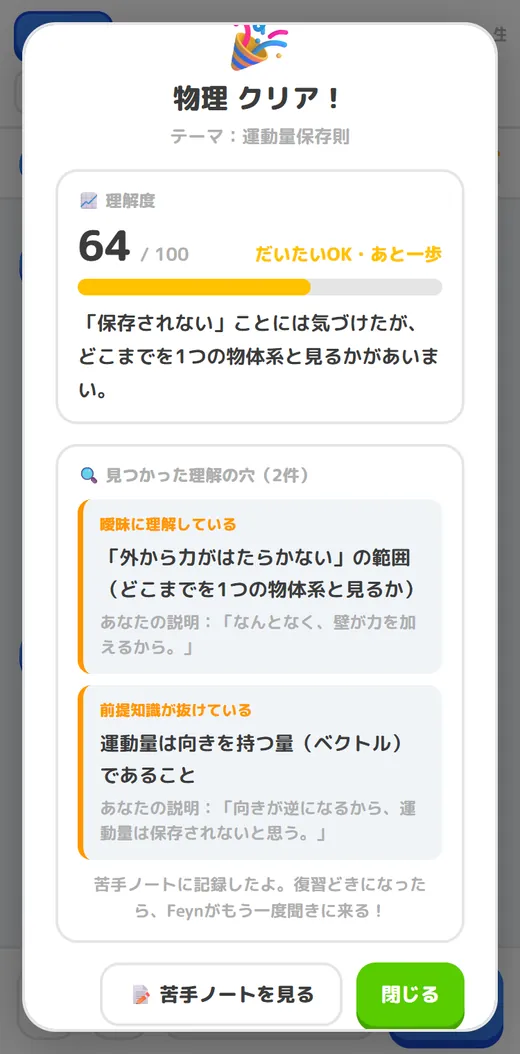
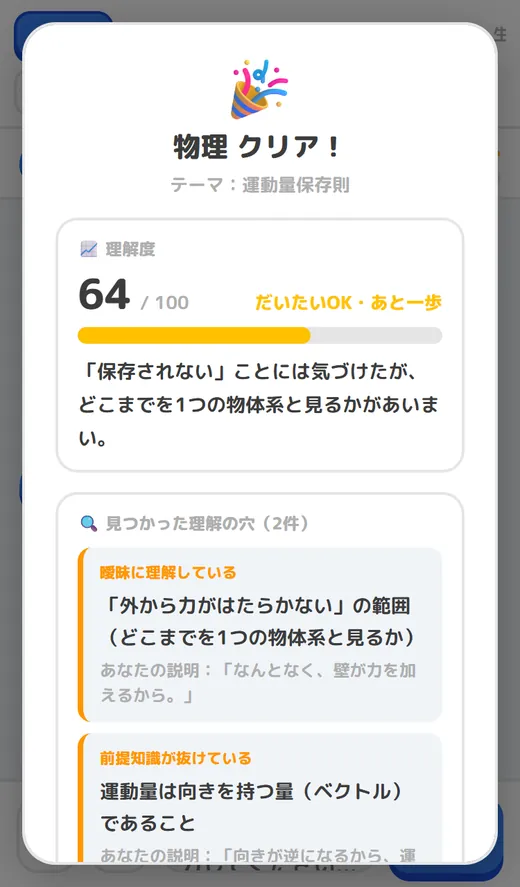
LP: しくみの01〜03を、同じ物理・運動量の会話の本物の画面にそろえる
- デモの会話（物理・運動量）を、01の質問 → 02のヒントと説明 → 03の答え直しと納得、とつながるように撮り直し
- 02・03の英語・仮定法のイラストを本物の画面に置き換え、イラストのCSSと演出を削除
- 画面は少し低い高さ（375×640）で撮り、結果・苦手ノートも同じ高さにそろえた（WebP・幅520px）
- 02・03の本文も、画面の会話とつながるように

diff --git a/landing.html b/landing.html
@@ -173,11 +173,6 @@
     .nb-meter { flex: 1; height: 10px; background: #E3EAEF; border-radius: 99px; overflow: hidden; }
     .nb-meter span { display: block; height: 100%; width: 50%; background: var(--brand); border-radius: 99px; }
 
-    /* 会話画面の部品（しくみで使う） */
-    .avatar { width: 30px; height: 30px; border-radius: 50%; background: var(--brand); display: grid; place-items: center; flex-shrink: 0; }
-    .b-feyn, .b-me { max-width: 88%; padding: 7px 10px; font-size: 11.5px; font-weight: 700; line-height: 1.55; }
-    .b-feyn { align-self: flex-start; background: #FFFFFF; border-radius: 12px 12px 12px 3px; }
-    .b-me { align-self: flex-end; background: var(--brand); color: var(--on-brand); border-radius: 12px 12px 3px 12px; }
 
     /* ===== Feynでできること（黒板の帯） ===== */
     .facts { background: var(--board); color: var(--board-ink); }
@@ -214,15 +209,6 @@
     .step p { font-size: 16px; color: var(--ink-soft); font-weight: 500; }
     .step p strong { color: var(--ink); font-weight: 700; }
     .step-visual { display: flex; justify-content: center; }
-    .card-screen { width: min(100%, 400px); background: #F0F4F8; border: 1px solid #D5DEE5; border-radius: 16px; padding: 16px; display: flex; flex-direction: column; gap: 10px; color: #2C3A2A; }
-    .cs-head { display: flex; align-items: center; gap: 10px; padding-bottom: 10px; border-bottom: 1px solid #D5DEE5; font-size: 14px; font-weight: 900; color: #14210F; line-height: 1.2; }
-    .cs-head small { display: block; font-size: 11px; font-weight: 700; color: #4B5A45; }
-    .card-screen .b-feyn, .card-screen .b-me { font-size: 14px; padding: 10px 14px; border-radius: 14px; }
-    .card-screen .b-feyn { border-bottom-left-radius: 4px; }
-    .card-screen .b-me { border-bottom-right-radius: 4px; }
-    .ways { display: flex; flex-wrap: wrap; gap: 8px; margin-top: 2px; }
-    .way { border: 1px solid #C9D4DC; background: #FFFFFF; border-radius: 4px; padding: 4px 10px; font-size: 13px; font-weight: 700; color: #33424D; }
-    .redpen-note { font-family: var(--hand); font-weight: 600; color: #D4352A; font-size: 15px; align-self: flex-start; padding-left: 6px; }
 
     /* ===== 会話のあとの結果 ===== */
     .graded { padding: 96px 0; border-top: 1px solid var(--rule); border-bottom: 1px solid var(--rule); background: var(--paper-2); }
@@ -417,12 +403,6 @@
     .js .bubbles.is-in .bubble:nth-child(3) { animation-delay: 0.5s; }
     .js .bubbles.is-in .bubble:nth-child(4) { animation-delay: 0.75s; }
 
-    /* しくみ: 会話画面の吹き出しが、チャットのように1つずつ出る */
-    .js .step-visual .card-screen > :not(.cs-head) { opacity: 0; }
-    .js .step-visual.is-in .card-screen > :not(.cs-head) { animation: pop-in 0.45s ease-out forwards; }
-    .js .step-visual.is-in .card-screen > :nth-child(2) { animation-delay: 0.3s; }
-    .js .step-visual.is-in .card-screen > :nth-child(3) { animation-delay: 1.1s; }
-    .js .step-visual.is-in .card-screen > :nth-child(4) { animation-delay: 1.9s; }
 
 
     /* 復習のグラフ: 灰色の線（復習しない）をさっと引き、色付きの線（Feynの復習）をゆっくり引く。
@@ -611,10 +591,10 @@
           </div>
           <div class="step-visual shot-visual">
             <figure class="phone">
-              <img src="/static/lp/app-chat.webp" width="520" height="1054" loading="lazy" decoding="async"
-                   alt="Feynの会話画面。Feynが「同じ速さではね返ったなら、運動量も保存されてるってこと？」と聞き、生徒の説明に「運動量が変わったのは何のせい？」と問いを返している。">
+              <img src="/static/lp/app-step1.webp" width="520" height="887" loading="lazy" decoding="async"
+                   alt="物理の会話の始まり。Feynが「ボールが壁にぶつかって、同じ速さ5 m/sではね返ったとする。速さが変わってないなら、ボールの運動量も保存されてるってこと？」と質問している。">
             </figure>
-            <p class="shot-note hand" aria-hidden="true">← 実際の画面</p>
+            <p class="shot-note hand" aria-hidden="true">実際の画面（物理・運動量）</p>
           </div>
         </div>
 
@@ -622,14 +602,14 @@
           <div class="step-text">
             <div class="step-num" aria-hidden="true">02</div>
             <h3>あなたが、自分の言葉で説明する</h3>
-            <p>文字で打っても、<strong>声で話しても</strong>OK。数式も入力できる。わからなくなったら「ヒント」でキーワードだけもらえる。</p>
+            <p>文字で打っても、<strong>声で話しても</strong>OK。数式も入力できる。わからなくなったら「ヒント」で<strong>キーワードだけ</strong>もらえる（画面では「力積、物体系」）。</p>
           </div>
-          <div class="step-visual">
-            <div class="card-screen" aria-hidden="true">
-              <div class="cs-head"><span class="avatar"><svg width="18" height="18" viewBox="0 0 24 24"><path d="M2 9.5 12 5l10 4.5L12 14z" fill="#FFFFFF"/><path d="M6.5 11.6V16c0 1.2 2.5 2.5 5.5 2.5s5.5-1.3 5.5-2.5v-4.4L12 14z" fill="#FFFFFF"/></svg></span><span>Feyn<small>あなたに英語を教わる生徒役</small></span></div>
-              <span class="b-me">事実と違うことを言う仮定法だから、形を過去にずらしてるんだよ。</span>
-              <div class="ways"><span class="way">文字で入力</span><span class="way">声で入力</span><span class="way">数式</span><span class="way">写真で出題</span></div>
-            </div>
+          <div class="step-visual shot-visual">
+            <figure class="phone">
+              <img src="/static/lp/app-step2.webp" width="520" height="887" loading="lazy" decoding="async"
+                   alt="同じ会話の続き。ヒントで「力積、物体系」とキーワードだけが出て、生徒が「向きが逆になるから、運動量は保存されないと思う。なんとなく、壁が力を加えるから。」と説明。Feynが「運動量が変わったのは何のせい？壁はボールに何をしてるの？」と聞き返し、生徒は次の説明を入力している。">
+            </figure>
+            <p class="shot-note hand" aria-hidden="true">ヒントはキーワードだけ</p>
           </div>
         </div>
 
@@ -637,15 +617,14 @@
           <div class="step-text">
             <div class="step-num" aria-hidden="true">03</div>
             <h3>答えは言わない。問いで返ってくる</h3>
-            <p>曖昧な言葉、飛ばした理由、前提の抜け。Feynは<strong>答えを言わずに、質問だけを1つずつ</strong>返してくる。説明しきってFeynが納得したら、クリア。</p>
+            <p>曖昧な言葉、飛ばした理由、前提の抜け。Feynは<strong>答えを言わずに、質問だけを1つずつ</strong>返してくる。「壁はボールに何をしてるの？」に答え直して、Feynが納得したら、クリア。</p>
           </div>
-          <div class="step-visual">
-            <div class="card-screen" aria-hidden="true">
-              <div class="cs-head"><span class="avatar"><svg width="18" height="18" viewBox="0 0 24 24"><path d="M2 9.5 12 5l10 4.5L12 14z" fill="#FFFFFF"/><path d="M6.5 11.6V16c0 1.2 2.5 2.5 5.5 2.5s5.5-1.3 5.5-2.5v-4.4L12 14z" fill="#FFFFFF"/></svg></span><span>Feyn<small>あなたに英語を教わる生徒役</small></span></div>
-              <span class="b-feyn">「過去にずらす」って、今の話なのに過去形を使う理由になる？</span>
-              <span class="b-me">現実から距離がある、っていう気持ちを時制で表してるから。</span>
-              <span class="b-feyn">なるほど…！ やっとわかった。ありがとう！</span>
-            </div>
+          <div class="step-visual shot-visual">
+            <figure class="phone">
+              <img src="/static/lp/app-step3.webp" width="520" height="887" loading="lazy" decoding="async"
+                   alt="同じ会話の終わり。生徒が「ボールだけを見ると運動量は変わる。ボールと壁をまとめて1つと見れば保存される」と説明し直し、Feynが「なるほど…！やっとわかった、ありがとう！」と納得している。納得度は100%。">
+            </figure>
+            <p class="shot-note hand" aria-hidden="true">納得させたら、クリア！</p>
           </div>
         </div>
       </div>
@@ -665,12 +644,12 @@
         </div>
         <div class="phones">
           <figure class="phone">
-            <img src="/static/lp/app-result.webp" width="520" height="1054" loading="lazy" decoding="async"
+            <img src="/static/lp/app-result.webp" width="520" height="887" loading="lazy" decoding="async"
                  alt="会話が終わったあとの結果画面。理解度64点と、見つかった理解の穴2つが、根拠になった生徒の発言つきで表示されている。">
             <figcaption class="phone-cap">会話のあとの結果</figcaption>
           </figure>
           <figure class="phone">
-            <img src="/static/lp/app-gaps.webp" width="520" height="1054" loading="lazy" decoding="async"
+            <img src="/static/lp/app-gaps.webp" width="520" height="887" loading="lazy" decoding="async"
                  alt="苦手ノートの画面。テーマ別の理解度と、まだ残っている苦手が並び、それぞれに「復習する」ボタンがある。">
             <figcaption class="phone-cap">苦手ノート</figcaption>
           </figure>

diff --git a/scripts/lp_shots.py b/scripts/lp_shots.py
@@ -53,7 +53,7 @@ SCRIPTS = {
     '物理': [
         'ボールが壁にぶつかって、同じ速さ 5 m/s ではね返ったとする。速さが変わってないなら、ボールの運動量も保存されてるってこと？',
         'じゃあ聞くけど、運動量が変わったのは何のせい？ 壁はボールに何をしてるの？',
-        'なるほど…！ 壁から力を受けたなら、ボールだけを見ると保存されないんだね。ボールと壁をまとめて見ればいいのか。ありがとう、納得した！【会話終了】',
+        'なるほど…！ ボールだけを見るか、壁までまとめて1つと見るかで答えが変わるんだね。やっとわかった、ありがとう！【会話終了】',
     ],
     '数学': [
         '放物線 y = x² と直線 y = x + 2 で囲まれた面積、公式で一発って聞いたけど、なんでその公式が使えるの？',
@@ -75,7 +75,7 @@ SCRIPTS = {
 STUDENT_LINES = {
     '物理': [
         '向きが逆になるから、運動量は保存されないと思う。なんとなく、壁が力を加えるから。',
-        '壁がボールに力積を加えるから、その分だけ運動量が変わる。外から力がはたらかなければ保存される。',
+        '壁がボールに力積を加えるから、ボールだけを見ると運動量は変わる。ボールと壁をまとめて1つと見れば、外から力ははたらかないから保存される。',
     ],
     '数学': [
         'なんとなく公式に当てはめた。1/6 公式は交点が2つあるときに使える。',
@@ -248,8 +248,9 @@ def shoot_app():
     with sync_playwright() as p:
         browser = _browser(p)
 
-        # --- 生徒: 会話 → 結果 → 苦手ノート ---
-        ctx = browser.new_context(**phone)
+        # --- 生徒: 会話（しくみの01〜03）→ 結果 → 苦手ノート ---
+        # しくみの3枚は、同じ物理・運動量の会話の流れで撮る。LPで縦に場所を取りすぎないよう、少し低い画面で撮る
+        ctx = browser.new_context(**{**phone, 'viewport': {'width': 375, 'height': 640}})
         _login(ctx, 'demo-a@example.com')
         page = ctx.new_page()
         page.goto(BASE + '/')
@@ -258,23 +259,40 @@ def shoot_app():
         page.locator('.subject[data-subject="物理"]').click()
         page.get_by_text('Feynにおまかせ').click()
         page.wait_for_selector('#messages .message.feyn .bubble >> text=5 m/s')
-        page.locator('#hintBtn').click()
-        page.wait_for_timeout(600)
-        # 会話画面: 1回目の説明に、Feynが次の問いを返したところで撮る
+        page.wait_for_timeout(500)
+
+        def shot_messages(name, index, block='start'):
+            """会話の index 番目の発言が画面の上（block='end' なら下）に来るようにして撮る"""
+            page.evaluate("([i, b]) => { const m = document.querySelectorAll('#messages .message')[i];"
+                          " if (m) m.scrollIntoView({block: b}); }", [index, block])
+            page.wait_for_timeout(400)
+            page.screenshot(path=tmp_png)
+            _save_webp(tmp_png, name)
+
+        # 01: Feynが最初の質問をしてくる
+        shot_messages('app-step1.webp', 0)
+        # 02: ヒントでキーワードをもらい、自分の言葉で説明する（次の説明を入力しているところ）
         first, second = STUDENT_LINES['物理']
+        page.locator('#hintBtn').click()
+        page.wait_for_selector('#messages .bubble >> text=力積', timeout=15000)
         page.fill('.input-area textarea', first)
         page.locator('.input-area .send-btn').click()
         page.wait_for_selector('#messages .bubble >> text=壁はボールに何をしてるの', timeout=15000)
-        page.wait_for_timeout(500)
-        page.screenshot(path=tmp_png)
-        _save_webp(tmp_png, 'app-chat.webp')
-        # 結果画面（会話が終わると自動で開く）
         page.fill('.input-area textarea', second)
+        page.evaluate("document.querySelector('.input-area textarea').scrollTop = 0")   # 入力中の文の頭を見せる
+        shot_messages('app-step2.webp', 1)
+        # 03: Feynの質問に答え直し、Feynが納得する（結果画面を閉じた後の会話を撮る）
         page.locator('.input-area .send-btn').click()
         page.wait_for_selector('#resultOverlay', state='visible', timeout=15000)
         page.wait_for_timeout(600)
+        # 結果のカードは画面より縦に長いので、見出し（〇〇 クリア！）が見える一番上を撮る
+        page.evaluate("""() => { for (const el of [document.getElementById('resultOverlay'), document.getElementById('resultCard')])
+                                 if (el) el.scrollTop = 0; }""")
+        page.wait_for_timeout(300)
         page.screenshot(path=tmp_png)
         _save_webp(tmp_png, 'app-result.webp')
+        page.evaluate('closeResult()')
+        shot_messages('app-step3.webp', 5, block='end')   # Feynが納得した最後の発言まで入れる
 
         page.goto(BASE + '/mypage?tab=gaps')
         page.wait_for_timeout(1200)

diff --git a/tests/test_landing.py b/tests/test_landing.py
@@ -265,3 +265,11 @@ def test_teacher_section_opens_cleanly_from_a_direct_link():
     assert 'section[id] { scroll-margin-top:' in LANDING
     # 先生向けのセクションでは、スマホの生徒向け固定ボタンをかぶせない
     assert "document.getElementById('teachers')]" in LANDING
+
+
+def test_how_it_works_uses_one_physics_conversation_from_the_real_app():
+    how = LANDING[LANDING.index('<section id="how"'):LANDING.index('<!-- ===== 会話のあとの結果')]
+    for n in (1, 2, 3):
+        assert f'src="/static/lp/app-step{n}.webp" width="520" height="887" loading="lazy"' in how
+    assert 'card-screen' not in LANDING          # 作った会話画面（英語・仮定法のイラスト）は使わない
+    assert '仮定法' not in how and '運動量' in how
